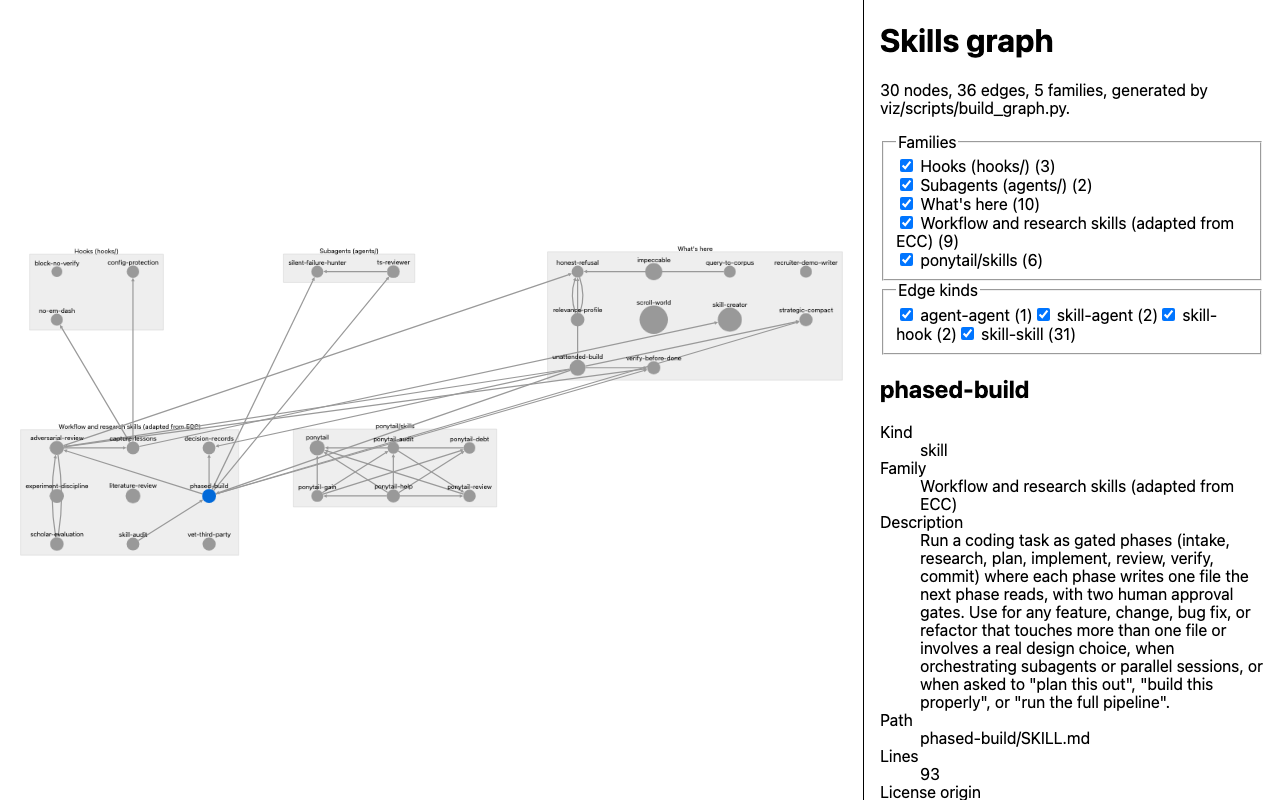
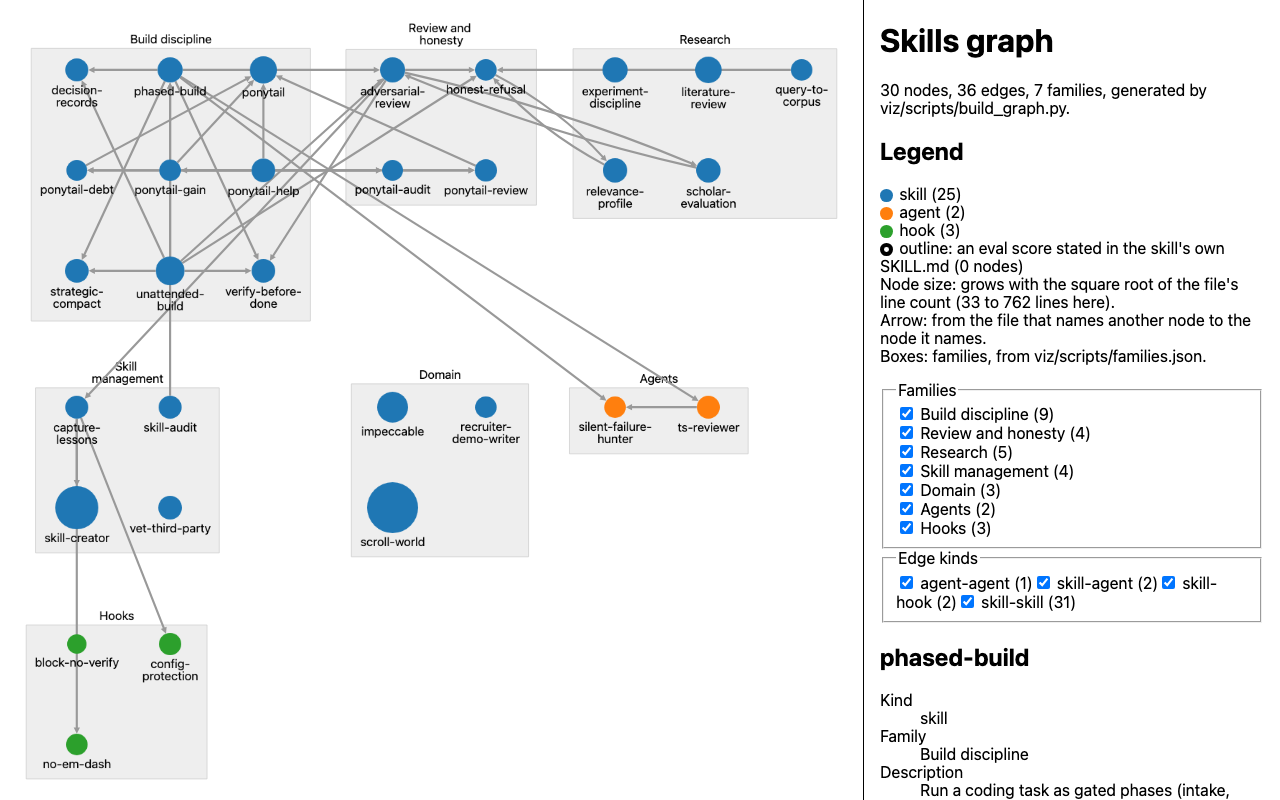
feat(viz): color by kind, legend, and legible labels (F2, F3)
F2: nodes are colored by kind with the first three colors of d3's
category10 scheme (a default for distinguishable categories, not a
palette); a node whose own SKILL.md states an eval score gets a black
outline (none today); a legend says what color, outline, node size,
arrows, and boxes mean, computed from the data.

F3: labels sit below their node at 17 px and wrap at hyphens; the
family cells use the column count that fits the viewport at the largest
zoom; the graph is fitted on load.

smoke.mjs now checks each node's color against its kind, the outline
against its eval status, the legend swatches, the smallest drawn label
(12.2 px, at least 12), label boxes against node circles (0 overlaps),
and that the graph fits the viewport; it exits 0. npm test: 19 of 19.

diff --git a/viz/app.js b/viz/app.js
@@ -5,6 +5,22 @@
 
 const FAMILY_PREFIX = 'family:';
 
+// Node color by kind: the first three colors of d3's category10 scheme, a common
+// default for telling categories apart. Not a designed palette.
+const KIND_COLORS = { skill: '#1f77b4', agent: '#ff7f0e', hook: '#2ca02c' };
+// A node whose own SKILL.md states an eval score gets this outline.
+const MEASURED_OUTLINE = { width: 4, color: '#000000' };
+const LABEL_FONT_SIZE = 17;
+
+function isMeasured(n) {
+  return typeof n.eval_status === 'string' && n.eval_status.startsWith('measured:');
+}
+
+// Zero-width spaces after hyphens let long names wrap at hyphens.
+function nodeLabel(name) {
+  return String(name).replace(/-/g, '-\u200b');
+}
+
 function checkGraph(graph) {
   const ok =
     graph &&
@@ -39,8 +55,9 @@ function toElements(graph) {
     group: 'nodes',
     data: {
       id: n.id,
-      label: n.name || n.id,
+      label: nodeLabel(n.name || n.id),
       kind: n.kind,
+      measured: isMeasured(n),
       family: n.family,
       parent: FAMILY_PREFIX + n.family,
       size: nodeSize(n.lines),
@@ -55,18 +72,14 @@ function toElements(graph) {
 
 // Each family gets its own cell so family boxes never overlap: cells are sized
 // by member count (a near-square grid of fixed slots, one per member) and
-// arranged in a grid of cells. Members are placed inside their cell by
-// Cytoscape's built-in grid layout.
-const SLOT = { w: 190, h: 120 };
-const GAP = 80;
+// arranged in a grid of cells. The number of cell columns is the one that lets
+// the whole graph fit the viewport at the largest zoom, which keeps labels as
+// large as possible. Members are placed inside their cell by Cytoscape's
+// built-in grid layout.
+const SLOT = { w: 130, h: 140 };
+const GAP = 50;
 
-function familyCells(families) {
-  const cols = Math.max(1, Math.ceil(Math.sqrt(families.length)));
-  const shapes = families.map((f) => {
-    const c = Math.max(1, Math.ceil(Math.sqrt(f.count)));
-    const r = Math.max(1, Math.ceil(f.count / c));
-    return { id: f.id, cols: c, rows: r, w: c * SLOT.w, h: r * SLOT.h };
-  });
+function placeCells(shapes, cols) {
   const colW = [];
   const rowH = [];
   shapes.forEach((s, i) => {
@@ -76,11 +89,26 @@ function familyCells(families) {
     rowH[row] = Math.max(rowH[row] || 0, s.h);
   });
   const offset = (sizes, n) => sizes.slice(0, n).reduce((sum, size) => sum + size + GAP, 0);
-  return shapes.map((s, i) => ({
-    ...s,
-    x1: offset(colW, i % cols),
-    y1: offset(rowH, Math.floor(i / cols)),
-  }));
+  return {
+    w: offset(colW, colW.length) - GAP,
+    h: offset(rowH, rowH.length) - GAP,
+    cells: shapes.map((s, i) => ({ ...s, x1: offset(colW, i % cols), y1: offset(rowH, Math.floor(i / cols)) })),
+  };
+}
+
+function familyCells(families, aspect = 1) {
+  const shapes = families.map((f) => {
+    const c = Math.max(1, Math.ceil(Math.sqrt(f.count)));
+    const r = Math.max(1, Math.ceil(f.count / c));
+    return { id: f.id, cols: c, rows: r, w: c * SLOT.w, h: r * SLOT.h };
+  });
+  let best = null;
+  for (let cols = 1; cols <= Math.max(1, shapes.length); cols++) {
+    const placed = placeCells(shapes, cols);
+    const scale = Math.min(aspect / placed.w, 1 / placed.h);
+    if (!best || scale > best.scale) best = { scale, cells: placed.cells };
+  }
+  return best.cells;
 }
 
 function layoutFamilies(cy, graph) {
@@ -88,7 +116,10 @@ function layoutFamilies(cy, graph) {
     id: f.id,
     count: graph.nodes.filter((n) => n.family === f.id).length,
   }));
-  for (const cell of familyCells(counts)) {
+  const w = cy.width();
+  const h = cy.height();
+  const aspect = w > 0 && h > 0 ? w / h : 1;
+  for (const cell of familyCells(counts, aspect)) {
     const members = cy.getElementById(FAMILY_PREFIX + cell.id).children();
     members
       .layout({
@@ -118,7 +149,21 @@ function nodeDetails(graph, id) {
 }
 
 if (typeof module === 'object' && module.exports) {
-  module.exports = { checkGraph, nodeSize, toElements, nodeDetails, familyCells, layoutFamilies, FAMILY_PREFIX };
+  module.exports = {
+    checkGraph,
+    nodeSize,
+    toElements,
+    nodeDetails,
+    familyCells,
+    layoutFamilies,
+    isMeasured,
+    nodeLabel,
+    FAMILY_PREFIX,
+    KIND_COLORS,
+    MEASURED_OUTLINE,
+    LABEL_FONT_SIZE,
+    SLOT,
+  };
 }
 
 if (typeof document !== 'undefined') {
@@ -130,6 +175,7 @@ function main() {
   const detailsEl = document.getElementById('details');
   const filtersEl = document.getElementById('filters');
   const edgeFiltersEl = document.getElementById('edge-filters');
+  const legendEl = document.getElementById('legend');
 
   function fail(message) {
     statusEl.textContent = message;
@@ -214,6 +260,35 @@ function main() {
     detailsEl.append(edgeList('Incoming', info.incoming, graph, 'source'));
   }
 
+  function renderLegend(graph) {
+    legendEl.replaceChildren(el('h2', 'Legend'));
+    const list = el('ul');
+    for (const [kind, color] of Object.entries(KIND_COLORS)) {
+      const swatch = el('span');
+      swatch.className = 'swatch';
+      swatch.dataset.kind = kind;
+      swatch.style.backgroundColor = color;
+      const count = graph.nodes.filter((n) => n.kind === kind).length;
+      const item = el('li');
+      item.append(swatch, `${kind} (${count})`);
+      list.append(item);
+    }
+    const outline = el('span');
+    outline.className = 'swatch outline';
+    outline.style.border = `${MEASURED_OUTLINE.width}px solid ${MEASURED_OUTLINE.color}`;
+    const measured = graph.nodes.filter(isMeasured).length;
+    const outlineItem = el('li');
+    outlineItem.append(outline, `outline: an eval score stated in the skill's own SKILL.md (${measured} ${measured === 1 ? 'node' : 'nodes'})`);
+    list.append(outlineItem);
+    const lines = graph.nodes.map((n) => n.lines).filter((n) => typeof n === 'number');
+    list.append(
+      el('li', `Node size: grows with the square root of the file's line count (${Math.min(...lines)} to ${Math.max(...lines)} lines here).`),
+      el('li', 'Arrow: from the file that names another node to the node it names.'),
+      el('li', 'Boxes: families, from viz/scripts/families.json.'),
+    );
+    legendEl.append(list);
+  }
+
   function render(graph) {
     statusEl.textContent =
       `${graph.nodes.length} nodes, ${graph.edges.length} edges, ${graph.families.length} families, ` +
@@ -223,14 +298,34 @@ function main() {
       container: document.getElementById('graph'),
       elements: toElements(graph),
       style: [
-        { selector: 'node', style: { label: 'data(label)', 'font-family': 'system-ui, sans-serif' } },
+        {
+          selector: 'node',
+          style: {
+            label: 'data(label)',
+            'font-family': 'system-ui, sans-serif',
+            'font-size': LABEL_FONT_SIZE,
+            'text-valign': 'bottom',
+            'text-margin-y': 4,
+            'text-wrap': 'wrap',
+            'text-max-width': `${SLOT.w - 10}px`,
+          },
+        },
         { selector: 'node[size]', style: { width: 'data(size)', height: 'data(size)' } },
-        { selector: ':parent', style: { 'text-valign': 'top' } },
+        ...Object.entries(KIND_COLORS).map(([kind, color]) => ({
+          selector: `node[kind = "${kind}"]`,
+          style: { 'background-color': color },
+        })),
+        {
+          selector: 'node[?measured]',
+          style: { 'border-width': MEASURED_OUTLINE.width, 'border-color': MEASURED_OUTLINE.color },
+        },
+        { selector: ':parent', style: { 'text-valign': 'top', 'text-margin-y': -4 } },
         { selector: 'edge', style: { 'curve-style': 'bezier', 'target-arrow-shape': 'triangle' } },
         { selector: '.filtered', style: { display: 'none' } },
       ],
     });
     window.cy = cy;
+    renderLegend(graph);
 
     cy.on('tap', 'node', (evt) => {
       const node = evt.target;

diff --git a/viz/style.css b/viz/style.css
@@ -26,3 +26,18 @@ body {
 #filters label {
   display: block;
 }
+
+#legend ul {
+  list-style: none;
+  padding: 0;
+}
+
+.swatch {
+  display: inline-block;
+  width: 0.8em;
+  height: 0.8em;
+  margin-right: 0.4em;
+  border-radius: 50%;
+  vertical-align: middle;
+  box-sizing: border-box;
+}

diff --git a/viz/index.html b/viz/index.html
@@ -12,6 +12,7 @@
   <aside id="side">
     <h1>Skills graph</h1>
     <p id="status">Loading data/graph.json</p>
+    <section id="legend" aria-label="Legend"></section>
     <fieldset id="filters">
       <legend>Families</legend>
     </fieldset>

diff --git a/viz/README.md b/viz/README.md
@@ -7,9 +7,9 @@ A static page that shows every skill, agent, and hook in this repo as a node, cl
 - Run the extractor tests: `python3 -m unittest discover viz/scripts`.
 - Run the page tests (no browser): `node --test viz/scripts/test_app.cjs viz/scripts/test_panel.cjs`. `test_panel.cjs` runs the real `app.js` against a small fake DOM, taps every node, and checks each detail panel against `graph.json`; it checks the page's logic, not its drawing.
 - Run the layout test (headless Cytoscape, no browser): `node --test viz/scripts/test_layout.cjs`. `npm test` in `viz/` runs all three Node test files.
-- Smoke-test the rendered page: install the dev-only Playwright once with `cd viz && PLAYWRIGHT_SKIP_BROWSER_DOWNLOAD=1 npm ci --ignore-scripts` (pinned to 1.63.0 in `viz/package.json`; it drives Chromium build 1243, which must already be in the Playwright browser cache, or run `npx playwright install chromium` to fetch it). Then, with the server above running, `node viz/scripts/smoke.mjs http://127.0.0.1:8123/`. It checks the rendered node, edge, and family counts against `graph.json`, checks that no two family boxes overlap, checks both filters, clicks the most-connected node, checks every field and edge in the detail panel with the same contract as `test_panel.cjs` (`scripts/panel-check.cjs`), and writes `viz/screenshot.png`.
+- Smoke-test the rendered page: install the dev-only Playwright once with `cd viz && PLAYWRIGHT_SKIP_BROWSER_DOWNLOAD=1 npm ci --ignore-scripts` (pinned to 1.63.0 in `viz/package.json`; it drives Chromium build 1243, which must already be in the Playwright browser cache, or run `npx playwright install chromium` to fetch it). Then, with the server above running, `node viz/scripts/smoke.mjs http://127.0.0.1:8123/`. It checks the rendered node, edge, and family counts against `graph.json`, checks that no two family boxes overlap, checks each node's color against its kind and the outline against its eval status, checks the legend, checks that the smallest label is at least 12 px as drawn, that no label covers a node circle, and that the graph fits the viewport, checks both filters, clicks the most-connected node, checks every field and edge in the detail panel with the same contract as `test_panel.cjs` (`scripts/panel-check.cjs`), and writes `viz/screenshot.png`.
 
-The page (`index.html`, `app.js`, `style.css`) uses Cytoscape.js 3.34.3, vendored in `vendor/` with its MIT license; provenance and the reason for the choice are in `docs/decisions/0001-graph-library-cytoscape.md`. Families are compound nodes; each family gets its own cell, sized by member count, and its members are placed in the cell with Cytoscape's built-in `grid` layout, animation off, so family boxes never overlap. Node size grows with the square root of the file's line count. The side panel filters by family and by edge kind. Styling is plain on purpose: system font, white background, Cytoscape's default colors.
+The page (`index.html`, `app.js`, `style.css`) uses Cytoscape.js 3.34.3, vendored in `vendor/` with its MIT license; provenance and the reason for the choice are in `docs/decisions/0001-graph-library-cytoscape.md`. Families are compound nodes; each family gets its own cell, sized by member count, and its members are placed in the cell with Cytoscape's built-in `grid` layout, animation off, so family boxes never overlap. The number of cell columns is chosen to fit the viewport's shape at the largest zoom, and the graph is fitted to the viewport on load. Nodes are colored by kind with the first three colors of d3's category10 scheme (skill blue, agent orange, hook green), a default for telling categories apart rather than a designed palette; a node whose own SKILL.md states an eval score gets a black outline (none does today). Node size grows with the square root of the file's line count. Labels sit below their node at 17 px (at least 12 px as drawn at a 1280 by 800 window) and wrap at hyphens. A legend in the side panel says what color, outline, size, arrows, and boxes mean, and the panel filters by family and by edge kind. Otherwise styling is plain on purpose: system font, white background.
 
 ## graph.json
 
